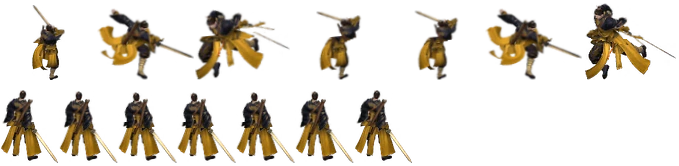
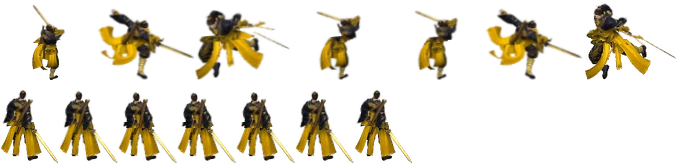
Tách tông vàng Yên Tử★ / nâu đất Thạch Sơn★; cache v292.

diff --git a/index.html b/index.html
@@ -9,10 +9,10 @@
 <link rel="manifest" href="manifest.json">
 <title>NamQuoc Idle</title>
 <link rel="stylesheet" href="fonts/ibm-plex-mono.css">
-<link rel="stylesheet" href="style.css?v=291">
-<link rel="stylesheet" href="jx1ui.css?v=291">
-<link rel="stylesheet" href="jx1ui2.css?v=291">
-<link rel="stylesheet" href="ui20.css?v=291">
+<link rel="stylesheet" href="style.css?v=292">
+<link rel="stylesheet" href="jx1ui.css?v=292">
+<link rel="stylesheet" href="jx1ui2.css?v=292">
+<link rel="stylesheet" href="ui20.css?v=292">
 </head>
 <body>
 <div id="bootLoad" aria-live="polite">
@@ -88,73 +88,73 @@
   <div id="modal" class="hidden" role="dialog" aria-modal="true"><div class="mbox" tabindex="-1"><button class="mx" id="mClose">✕</button><div id="mBody"></div></div></div>
   <div id="toast" role="status" aria-live="polite"></div>
 </div>
-<script src="data.js?v=291"></script>
-<script src="setvi.js?v=291"></script>
-<script src="setfix.js?v=291"></script>
-<script src="world.js?v=291"></script>
-<script src="zones2.js?v=291"></script>
-<script src="js/som_hoason_data.js?v=291"></script>
-<script src="js/som_hoason.js?v=291"></script>
-<script src="sound.js?v=291"></script>
-<script src="fx.js?v=291"></script>
-<script src="jmo.js?v=291"></script>
-<script src="jmo2.js?v=291"></script>
-<script src="js/core.js?v=291"></script>
-<script src="js/mapobs.js?v=291"></script>
-<script src="js/stats.js?v=291"></script>
-<script src="js/vocong.js?v=291"></script>
-<script src="js/skillsys.js?v=291"></script>
-<script src="js/kytran.js?v=291"></script>
-<script src="js/loot.js?v=291"></script>
-<script src="rdata.js?v=291"></script>
-<script src="js/sets.js?v=291"></script>
-<script src="js/recipes.js?v=291"></script>
-<script src="js/combat.js?v=291"></script>
-<script src="js/field.js?v=291"></script>
-<script src="js/ride.js?v=291"></script>
-<script src="js/save.js?v=291"></script>
-<script src="js/render.js?v=291"></script>
-<script src="js/som_anim.js?v=291"></script>
-<script src="js/jxmis.js?v=291"></script>
-<script src="jxstate.js?v=291"></script>
-<script src="fx2.js?v=291"></script>
-<script src="fx3.js?v=291"></script>
-<script src="js/skillfx.js?v=291"></script>
-<script src="js/look.js?v=291"></script>
-<script src="js/jxparts.js?v=291"></script>
-<script src="js/audio.js?v=291"></script>
-<script src="js/ui.js?v=291"></script>
-<script src="js/control.js?v=291"></script>
-<script src="js/shop.js?v=291"></script>
-<script src="js/potsel.js?v=291"></script>
-<script src="js/rewards.js?v=291"></script>
-<script src="js/title.js?v=291"></script>
-<script src="js/records.js?v=291"></script>
-<script src="js/horse.js?v=291"></script>
-<script src="js/thanma.js?v=291"></script>
-<script src="js/dungeon.js?v=291"></script>
-<script src="js/giangho.js?v=291"></script>
-<script src="js/forge.js?v=291"></script>
-<script src="js/epdo.js?v=291"></script>
-<script src="js/thuyen.js?v=291"></script>
-<script src="js/mode.js?v=291"></script>
-<script src="js/tabs2.js?v=291"></script>
-<script src="js/auto.js?v=291"></script>
-<script src="js/guide.js?v=291"></script>
-<script src="js/stash.js?v=291"></script>
-<script src="js/donkho.js?v=291"></script>
-<script src="js/name.js?v=291"></script>
-<script src="js/chatcfg.js?v=291"></script>
-<script src="js/chat.js?v=291"></script>
-<script src="js/net.js?v=291"></script>
-<script src="js/mp.js?v=291"></script>
-<script src="js/mp_auth.js?v=291"></script>
-<script src="js/ui20.js?v=291"></script>
-<script src="js/ui20win.js?v=291"></script>
-<script src="js/admin.js?v=291"></script>
-<script src="js/tho_test_fx_data.js?v=291"></script>
-<script src="js/viet_char_data.js?v=291"></script>
-<script src="js/tho_test.js?v=291"></script>
-<script src="js/main.js?v=291"></script>
+<script src="data.js?v=292"></script>
+<script src="setvi.js?v=292"></script>
+<script src="setfix.js?v=292"></script>
+<script src="world.js?v=292"></script>
+<script src="zones2.js?v=292"></script>
+<script src="js/som_hoason_data.js?v=292"></script>
+<script src="js/som_hoason.js?v=292"></script>
+<script src="sound.js?v=292"></script>
+<script src="fx.js?v=292"></script>
+<script src="jmo.js?v=292"></script>
+<script src="jmo2.js?v=292"></script>
+<script src="js/core.js?v=292"></script>
+<script src="js/mapobs.js?v=292"></script>
+<script src="js/stats.js?v=292"></script>
+<script src="js/vocong.js?v=292"></script>
+<script src="js/skillsys.js?v=292"></script>
+<script src="js/kytran.js?v=292"></script>
+<script src="js/loot.js?v=292"></script>
+<script src="rdata.js?v=292"></script>
+<script src="js/sets.js?v=292"></script>
+<script src="js/recipes.js?v=292"></script>
+<script src="js/combat.js?v=292"></script>
+<script src="js/field.js?v=292"></script>
+<script src="js/ride.js?v=292"></script>
+<script src="js/save.js?v=292"></script>
+<script src="js/render.js?v=292"></script>
+<script src="js/som_anim.js?v=292"></script>
+<script src="js/jxmis.js?v=292"></script>
+<script src="jxstate.js?v=292"></script>
+<script src="fx2.js?v=292"></script>
+<script src="fx3.js?v=292"></script>
+<script src="js/skillfx.js?v=292"></script>
+<script src="js/look.js?v=292"></script>
+<script src="js/jxparts.js?v=292"></script>
+<script src="js/audio.js?v=292"></script>
+<script src="js/ui.js?v=292"></script>
+<script src="js/control.js?v=292"></script>
+<script src="js/shop.js?v=292"></script>
+<script src="js/potsel.js?v=292"></script>
+<script src="js/rewards.js?v=292"></script>
+<script src="js/title.js?v=292"></script>
+<script src="js/records.js?v=292"></script>
+<script src="js/horse.js?v=292"></script>
+<script src="js/thanma.js?v=292"></script>
+<script src="js/dungeon.js?v=292"></script>
+<script src="js/giangho.js?v=292"></script>
+<script src="js/forge.js?v=292"></script>
+<script src="js/epdo.js?v=292"></script>
+<script src="js/thuyen.js?v=292"></script>
+<script src="js/mode.js?v=292"></script>
+<script src="js/tabs2.js?v=292"></script>
+<script src="js/auto.js?v=292"></script>
+<script src="js/guide.js?v=292"></script>
+<script src="js/stash.js?v=292"></script>
+<script src="js/donkho.js?v=292"></script>
+<script src="js/name.js?v=292"></script>
+<script src="js/chatcfg.js?v=292"></script>
+<script src="js/chat.js?v=292"></script>
+<script src="js/net.js?v=292"></script>
+<script src="js/mp.js?v=292"></script>
+<script src="js/mp_auth.js?v=292"></script>
+<script src="js/ui20.js?v=292"></script>
+<script src="js/ui20win.js?v=292"></script>
+<script src="js/admin.js?v=292"></script>
+<script src="js/tho_test_fx_data.js?v=292"></script>
+<script src="js/viet_char_data.js?v=292"></script>
+<script src="js/tho_test.js?v=292"></script>
+<script src="js/main.js?v=292"></script>
 </body>
 </html>

diff --git a/sw.js b/sw.js
@@ -1,7 +1,7 @@
 // Ma nguon (js/css/html): mang truoc, cache du phong (luon lay ban moi, choi offline khi mat mang).
 // Hinh / am thanh / font (nang, it doi): lay ngay tu cache, dong thoi tai lai ngam de cap nhat (stale-while-revalidate).
 // Cache hinh giu qua cac ban cap nhat -> khong phai tai lai ~200 MB ban do / sprite moi lan doi phien ban.
-const C = 'jxidle-v291', IMG = 'jxidle-img-291';
+const C = 'jxidle-v292', IMG = 'jxidle-img-292';
 const ASSET = /\.(png|jpe?g|webp|gif|mp3|ogg|wav|m4a|woff2?|ttf)$/i;
 self.addEventListener('install', e => self.skipWaiting());
 self.addEventListener('activate', e => e.waitUntil(caches.keys().then(ks => Promise.all(ks.filter(k => k !== C && k !== IMG).map(k => caches.delete(k)))).then(() => self.clients.claim())));

diff --git a/tools/viet_char_build.py b/tools/viet_char_build.py
@@ -116,17 +116,17 @@ def recolor(im: Image.Image, mode: str) -> Image.Image:
     keep = soft | skin | dark_hair
 
     if mode == 'gold':
-        # áo → hổ phách / vàng đồng
-        h2 = 0.10 + (h - 0.55) * 0.08
-        s2 = np.clip(s * 1.15 + 0.18, 0, 1)
-        v2 = np.clip(v * 1.08 + 0.04, 0, 1)
-        hs, ss, vs = 0.12, 0.28, np.clip(v * 1.04, 0, 1)
+        # áo → vàng kim / hổ phách sáng (Yên Tử★)
+        h2 = 0.12 + (h - 0.55) * 0.05
+        s2 = np.clip(s * 1.35 + 0.28, 0, 1)
+        v2 = np.clip(v * 1.18 + 0.08, 0, 1)
+        hs, ss, vs = 0.13, 0.35, np.clip(v * 1.1, 0, 1)
     elif mode == 'earth':
-        # hệ Thổ: nâu đất / hổ phách đậm (khác hẳn xanh KH gốc)
-        h2 = 0.075 + (h - 0.55) * 0.06
-        s2 = np.clip(s * 1.25 + 0.22, 0, 1)
-        v2 = np.clip(v * 1.05 + 0.02, 0, 1)
-        hs, ss, vs = 0.10, 0.30, np.clip(v * 1.03, 0, 1)
+        # hệ Thổ: nâu đất / đất nung đậm (Thạch Sơn★) — khác rõ vàng
+        h2 = 0.055 + (h - 0.55) * 0.04
+        s2 = np.clip(s * 1.15 + 0.18, 0, 1)
+        v2 = np.clip(v * 0.92 + 0.02, 0, 1)
+        hs, ss, vs = 0.08, 0.25, np.clip(v * 0.95, 0, 1)
     else:
         # đỏ son
         h2 = 0.985 + (h - 0.55) * 0.05
